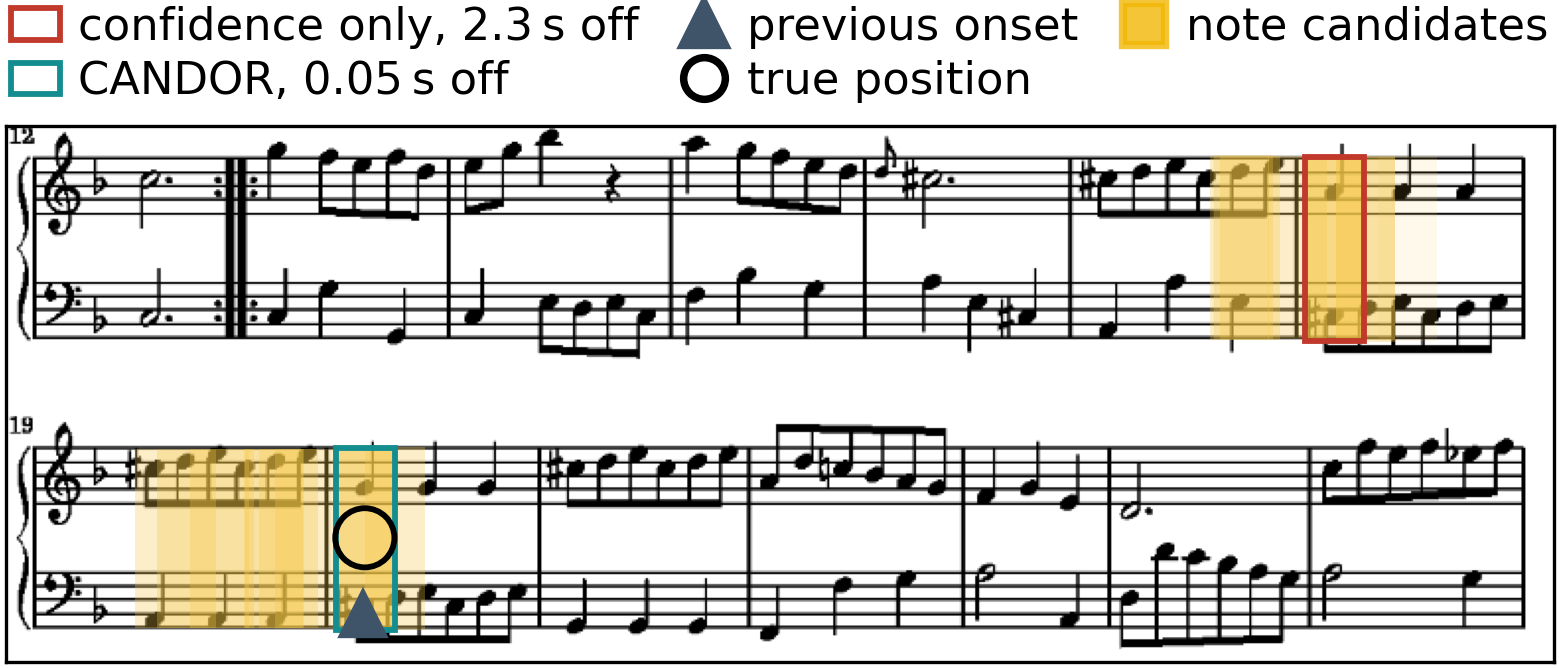
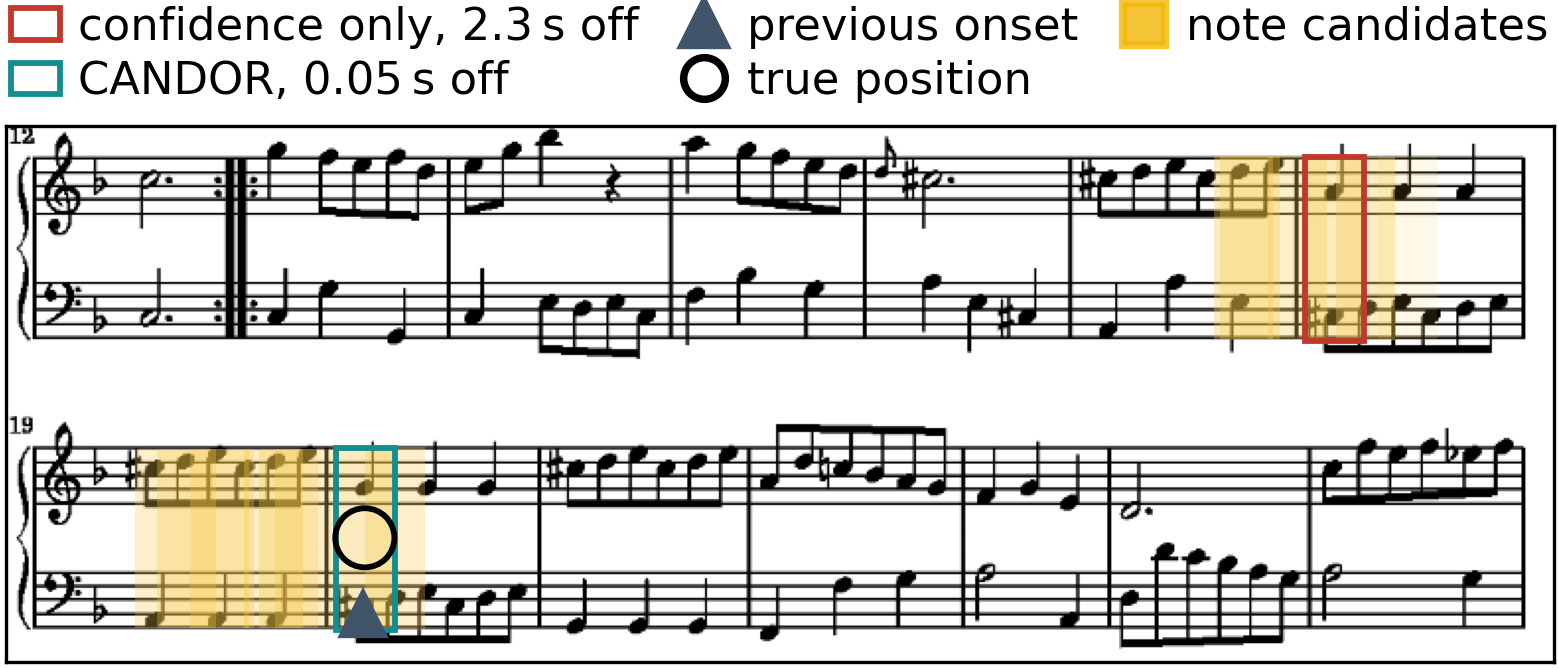
Fig. 1: encode the pile-up explicitly instead of leaving it to alpha
Alpha compositing does darken -- I measured 1, 2, 4 and 9 coincident
boxes at 0.11 and read back 0.115, 0.213, 0.382, 0.661 -- but the step
from one candidate to two moves the blue channel by 7% and is close to
invisible in a printed column.

So the count is now read off per position and mapped to opacity,
0.12 + 0.26(1 - 1/c), one fill per position rather than a stack. One
candidate renders at 0.12 and two at 0.25, a doubling in a single step,
and the curve saturates near 0.38 so a dozen candidates still leave the
notation readable. Measured on the rendered figure: singles at 0.126,
shared positions between 0.28 and 0.38.

Claude-Session: https://claude.ai/code/session_01Usokh9WtaRAVNcry6zLcpS

Changed region(s): [[0.7697, 0.2395, 0.8929, 0.509], [0.2155, 0.6587, 0.2771, 0.9281], [0.1539, 0.6886, 0.1847, 0.9281]]

diff --git a/paper/icassp2027-select/figs/make_fig_example.py b/paper/icassp2027-select/figs/make_fig_example.py
@@ -110,22 +110,27 @@ def main():
     fig, ax = plt.subplots(figsize=(3.35, 3.35 * (y1 - y0) / (x1 - x0)), dpi=600)
     ax.imshow(img, cmap='gray', vmin=0, vmax=255, interpolation='antialiased')
     # outlined boxes at this scale vanished into the staff lines, so the
-    # candidates are drawn as fills. They have to stay faint: at the earlier
-    # opacity the notation underneath them was unreadable, and the figure
-    # exists to show that the correct notehead was among them.
+    # candidates are drawn as fills.
     #
-    # Every box gets the SAME alpha, and the whole set is drawn rather than a
-    # subset. Ranking the alpha by confidence was invisible anyway, because the
-    # boxes pile up: the top 40 occupy 7 distinct positions and the top 20
-    # occupy 3, so a reader counting yellow shapes counted 7 and the caption
-    # claimed 40. With a constant alpha the pile-up itself does the shading,
-    # a position holding a dozen boxes reading an order of magnitude darker
-    # than one holding a single box, and the count in the caption is the count
-    # the method uses.
-    for r in range(min(TOPN, len(x)))[::-1]:
+    # Overlap is the thing the figure has to convey, because the top 64
+    # candidates land on only twelve distinct positions. Left to alpha
+    # compositing it does darken -- two boxes at 0.11 measure 0.21 -- but the
+    # step from one box to two moves the blue channel by 7% and is close to
+    # invisible on a printed column. So the count is read off explicitly and
+    # mapped to opacity, with one fill per position rather than a stack: the
+    # jump from a single candidate to two is large, and the curve saturates so
+    # that a dozen candidates still leave the notation readable.
+    groups = {}
+    for r in range(min(TOPN, len(x))):
+        k = (round(float(x[r]) / 5.0), round(float(y[r]) / 20.0))
+        groups.setdefault(k, []).append(r)
+    for members in sorted(groups.values(), key=len):
+        r = members[0]
+        c = len(members)
+        a = 0.12 + 0.26 * (1.0 - 1.0 / c)
         ax.add_patch(Rectangle((x[r] - w[r] / 2, y[r] - h[r] / 2), w[r], h[r],
-                               facecolor='#f7c948', edgecolor='none',
-                               alpha=0.11))
+                               facecolor='#f7c948', edgecolor='none', alpha=a))
+
     # the two outlines are the detector's own boxes at their true extent. It
     # is the stroke that has to stay thin: at 1.5 pt the border was heavier
     # than the staff lines and read as a filled bar.

diff --git a/paper/icassp2027-select/main.tex b/paper/icassp2027-select/main.tex
@@ -148,8 +148,8 @@ differing in heads and in training data.
   \centering
   \includegraphics[width=\columnwidth]{figs/fig_example.pdf}
   \caption{One instant of a real room-microphone recording. In yellow, the 64
-  most confident of the 256 candidates, at one opacity so that the fill darkens
-  where they pile up on the same notehead. The most confident (red) lies on the wrong staff,
+  most confident of the 256 candidates, with opacity rising where several
+  land on the same notehead. The most confident (red) lies on the wrong staff,
   2.3\,s from the truth; \sys{} (teal) takes a less confident candidate on the
   true note (ring), forward of the previous decision (caret). The correct
   position was available and was not chosen, which is the characteristic
